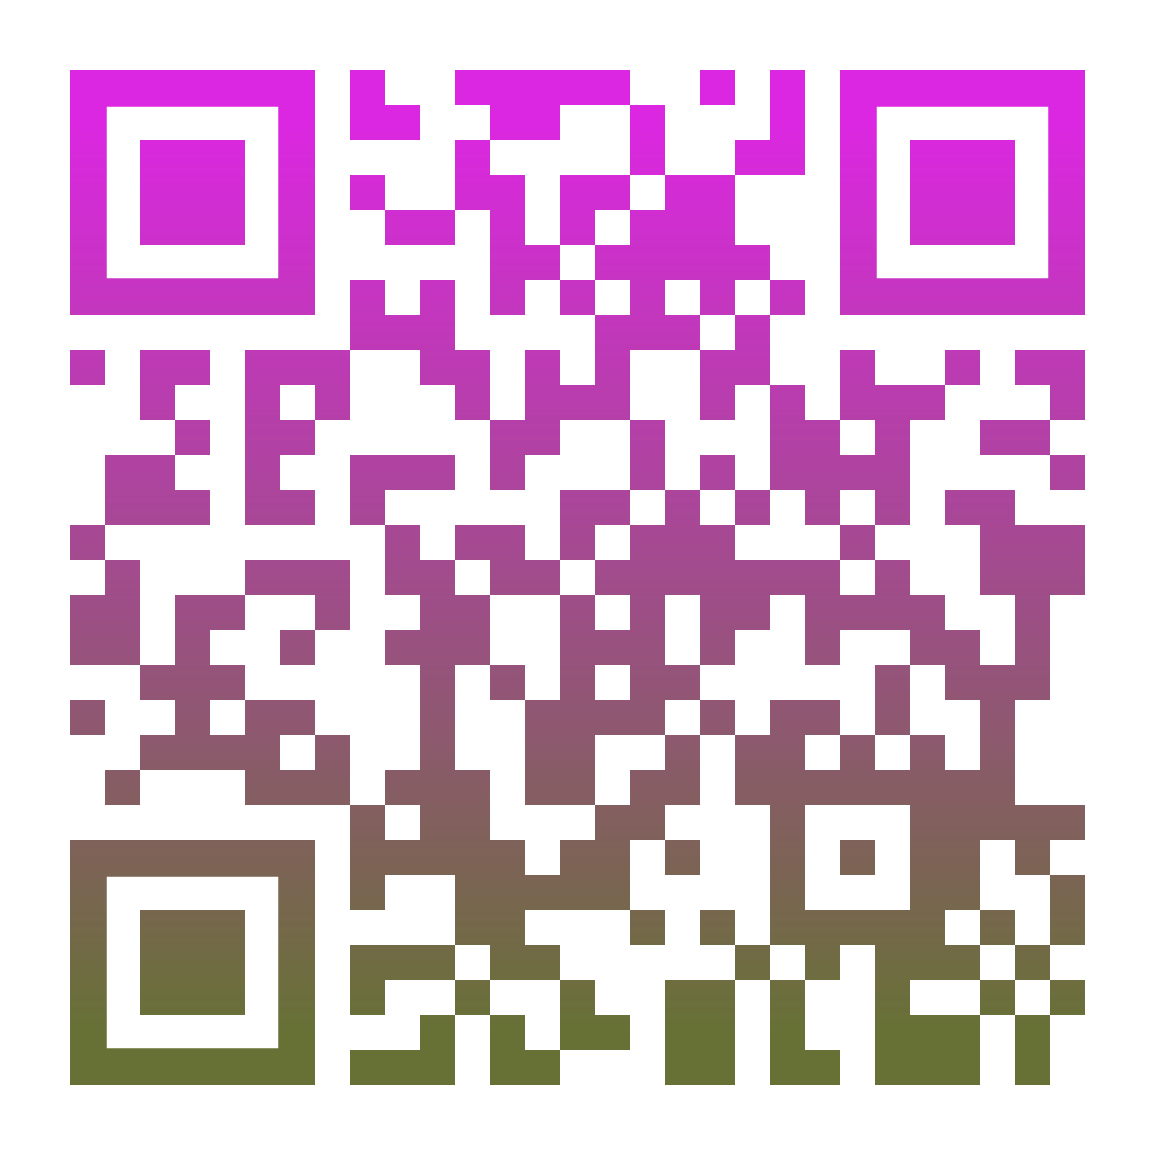
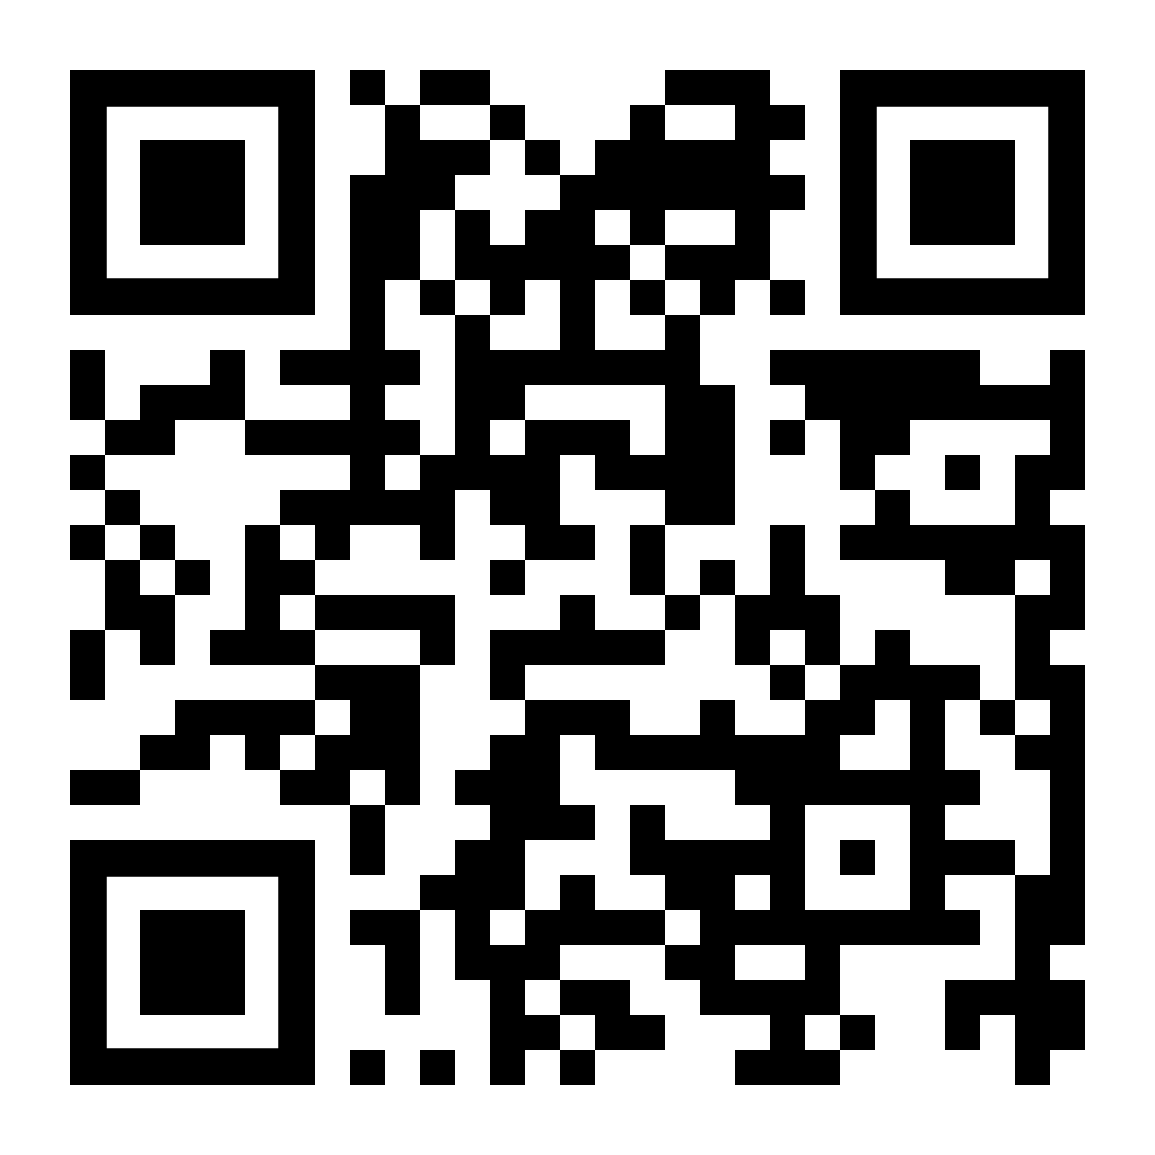
eng princ up

diff --git a/FS2006_4.html b/FS2006_4.html
@@ -43,7 +43,7 @@
 		<div class="slides">
 			<section>
 				<section>
-				<h3>Engineering Principles II: <br>Transformative Operations</h3>
+				<h3>Engineering Principles I: <br>Transformative Operations</h3>
 				<h4><i>Dr Shane V Crowley</i></h4>
 				<p><small>Press <b>down</b> for controls and <b>right</b> to progress</small></p>	
 	
@@ -65,20 +65,20 @@
 			</section> -->
 
 			<section>
-				<p> To view the <b>video</b> just type this into your browser:
+				<p> To view the <b>video</b> just follow the links:
 					<br>
-					<a href="https://youtu.be/C3NFDB6Cvh0">👉<i>https://youtu.be/C3NFDB6Cvh0</i></a>
+					<a href="https://youtu.be/679iZMRm6WU">👉<i>https://youtu.be/679iZMRm6WU</i></a>
 				</p>
 
 				<img title="Scan me with your phone!" src="img/qr_fs2006_4yt.png" alt="if you don't see a QR code click the link" style="height: 340px; margin: 0 auto 4rem auto; background: transparent;" class="qr_code">
 					<br>
-				<small><strong>No slides associated with this lecture (hand drawn)</strong></small>
+				<small><strong>No slides associated with this lecture (hand drawn) but don't forget to watch part II of Engineering Principles on the concept of scaling up</strong></small>
 			
 			</section>
 
 				<section>
-					<h3><strong>Next lecture</strong> <br> </h3>
-					<p><i>Scale</i></p>
+					<h3><strong>Next Part</strong> <br> </h3>
+					<p><i>Engineering Principles II: Scale</i></p>
 
 					<a href="mailto:shane.crowley@ucc.ie">shane.crowley@ucc.ie</p>
 					<a href="mailto:shane.crowley@ucc.ie">

diff --git a/FS2006_5.html b/FS2006_5.html
@@ -43,7 +43,7 @@
 		<div class="slides">
 
             <section>
-				<h3>Engineering Principles III: <br>Scaling Up</h3>
+				<h3>Engineering Principles II: <br>Scaling Up</h3>
 				<h4><i>Dr Shane V Crowley</i></h4>
 				<p><small>Press <b>down</b> for controls and <b>right</b> to progress</small></p>	
 	
@@ -52,10 +52,10 @@
                 <section>
                     <p> To view the <b>video</b> just follow the links:
                         <br>
-                        <a href="https://youtu.be/6bpaN0bo_QM">👉<i>https://youtu.be/6bpaN0bo_QM</i></a>
+                        <a href="https://youtu.be/wasTg9_D9t4">👉<i>https://youtu.be/wasTg9_D9t4</i></a>
                     </p> <img title="Scan me with your phone!" src="img/qr_fs2006_5yt.png" alt="if you don't see a QR code click the link" style="height: 340px; margin: 0 auto 4rem auto; background: transparent;" class="qr_code">
                         <br>
-                    <a href="https://edibotopic.github.io/lecture-slides/FS2006_5.html?print-pdf" title="For your added convenience">Click for print version (not recommended)👈</a>
+                    <!-- <a href="https://edibotopic.github.io/lecture-slides/FS2006_5.html?print-pdf" title="For your added convenience">Click for print version (not recommended)👈</a> -->
                 
                 </section>
 

diff --git a/index.md b/index.md
@@ -63,9 +63,9 @@ Lecture#2: [Food Physics II](http://edibotopic.github.io/lecture-slides/FS2006_2
 
 <!-- Lecture#3: [Engineering Principles I](http://edibotopic.github.io/lecture-slides/FS2006_3.html) -->
 
-<!-- Lecture#4: [Engineering Principles II](http://edibotopic.github.io/lecture-slides/FS2006_4.html) -->
+Lecture#4: [Engineering Principles I](http://edibotopic.github.io/lecture-slides/FS2006_4.html)
 
-<!-- Lecture#5: [Engineering Principles III](http://edibotopic.github.io/lecture-slides/FS2006_5.html) -->
+Lecture#5: [Engineering Principles II](http://edibotopic.github.io/lecture-slides/FS2006_5.html)
 
 <!-- Lecture#6: [Hydrostatics I](http://edibotopic.github.io/lecture-slides/FS2006_6.html) -->
 
